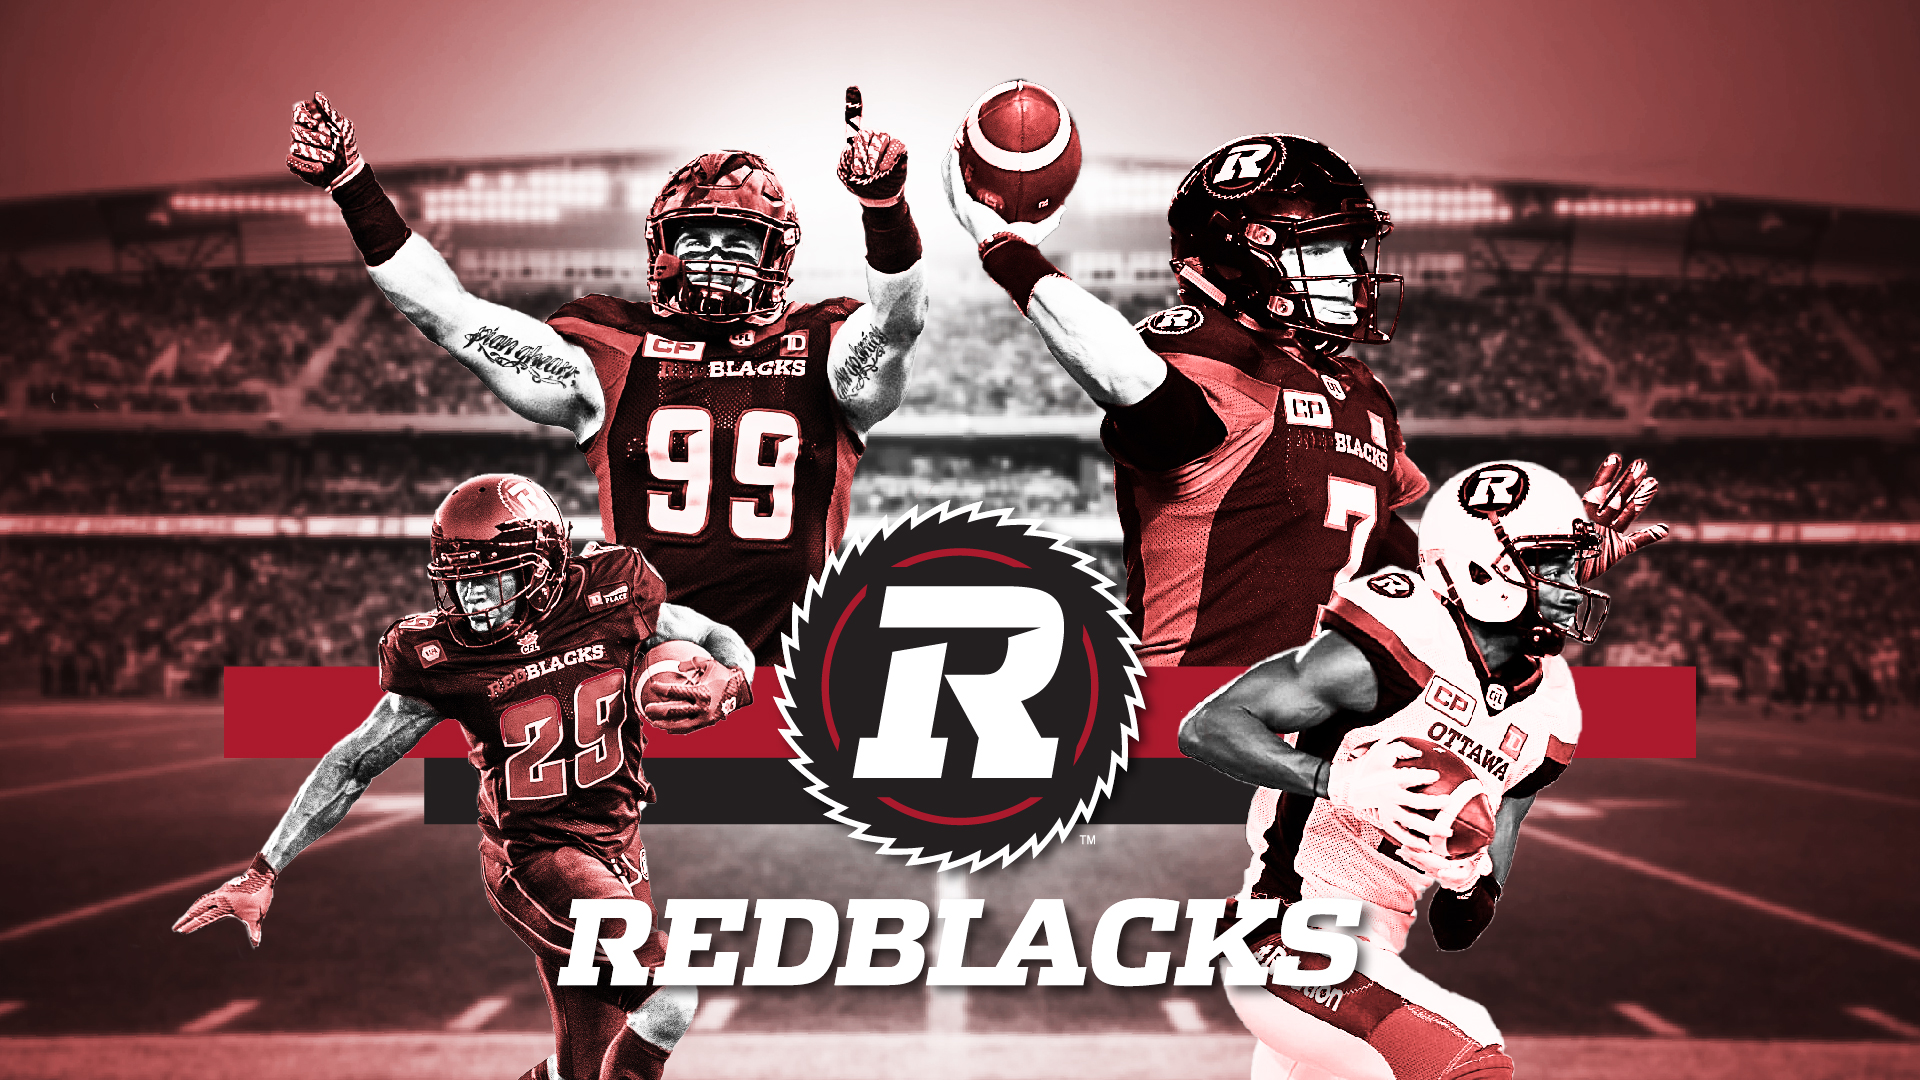
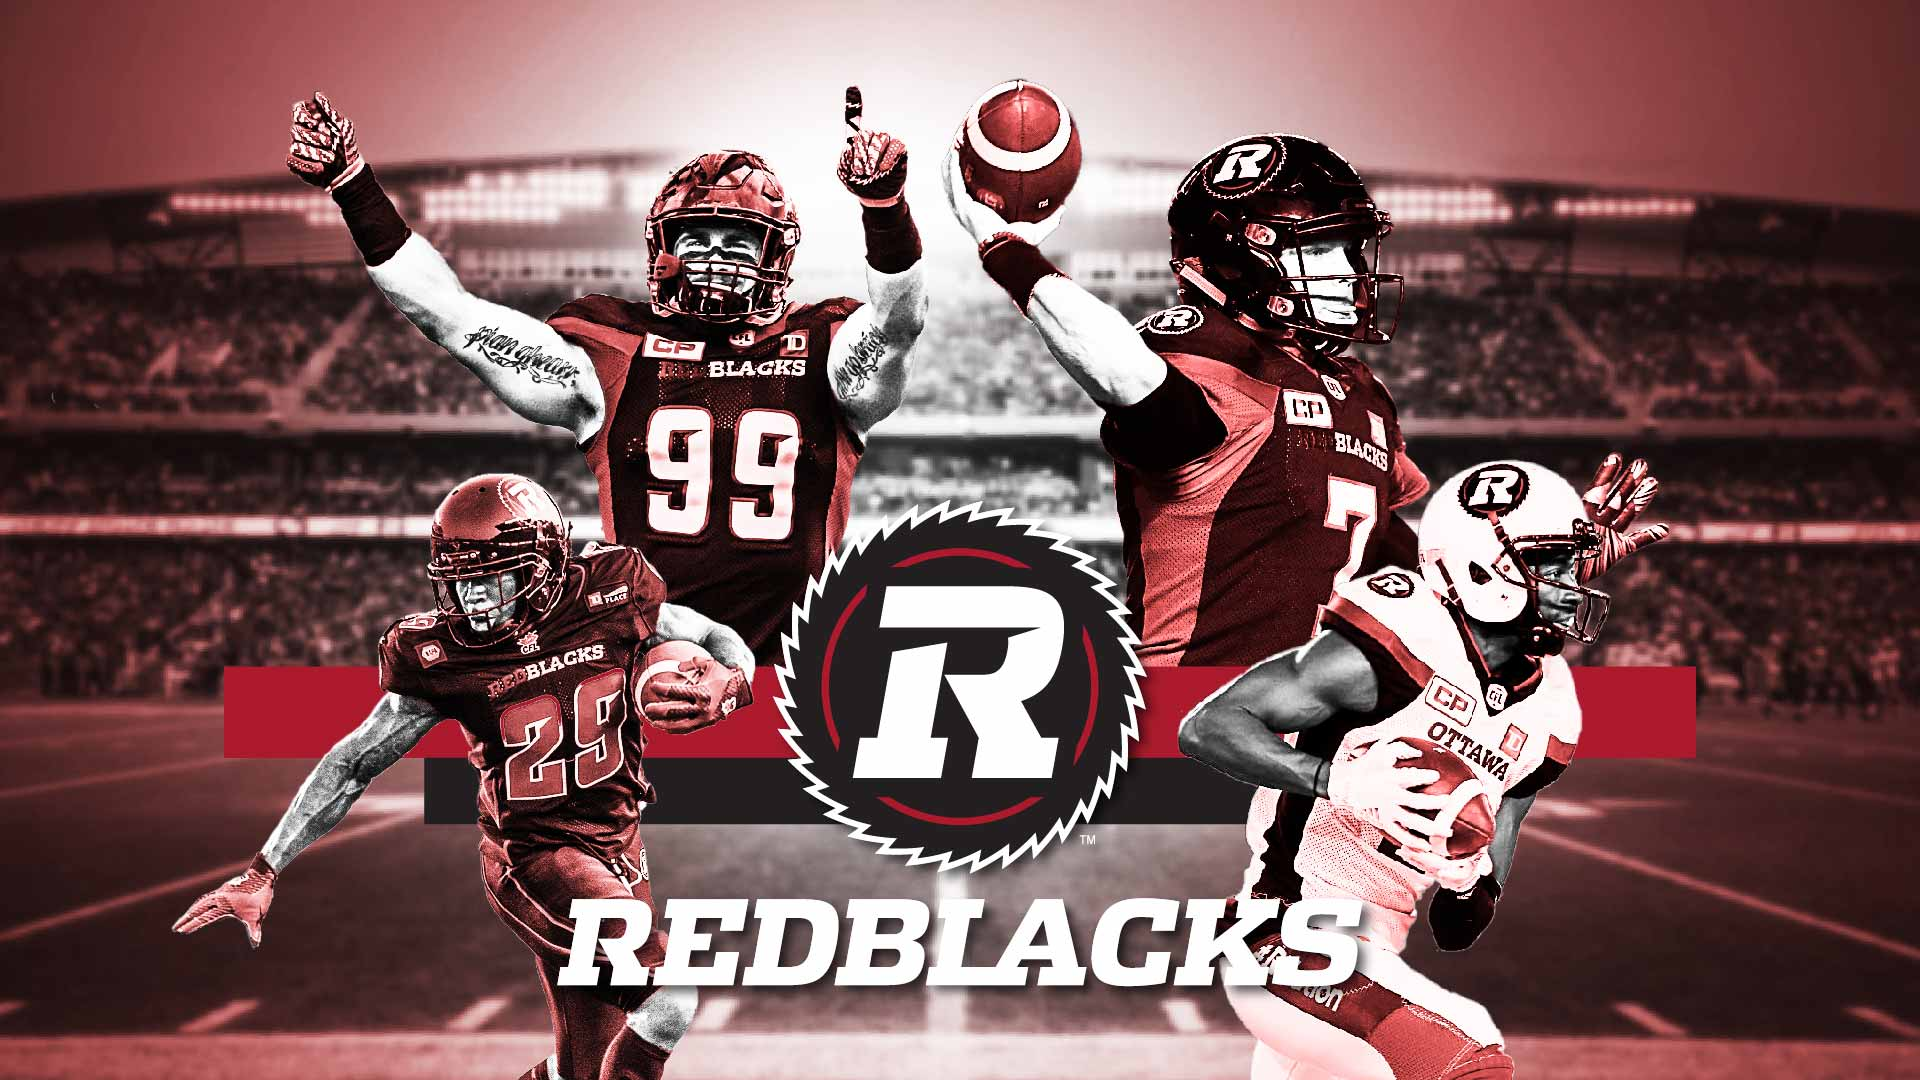
Resize all images and replace pngs

diff --git a/polished.html b/polished.html
@@ -46,7 +46,7 @@ csNumber: 0
   <div class="main-preview">
     <div class="grid wrapper island-1-2">
       <div class="unit [ xs-1 m-1-2 ] island-1-2 preview-holder">
-        <img class="main-preview-img main-preview-img-left case-study-preview-img-in tt-visuals" src="{{site.baseurl}}/images/polished/visual-design.png" alt="A computer, laptop, and tablet displaying the Polished website design at different screen sizes.">
+        <img class="main-preview-img main-preview-img-left case-study-preview-img-in tt-visuals" src="{{site.baseurl}}/images/polished/visual-design.jpg" alt="A computer, laptop, and tablet displaying the Polished website design at different screen sizes.">
       </div>
       <div class="unit [ xs-1 m-1-2 ] island-1-2">
         <h2 class="">Visual Design</h2>
@@ -87,7 +87,7 @@ csNumber: 0
   <div class="tt-final-preview">
     <div class="grid wrapper island-1-2">
       <div class="unit [ xs-1 m-1-2 ] island-1-2 preview-holder">
-        <img class="tt-final-preview-img tt-final-preview-img-left case-study-preview-img-in" src="{{site.baseurl}}/images/polished/laptop-polished-home.png" alt="A laptop showing the Polished home page design.">
+        <img class="tt-final-preview-img tt-final-preview-img-left case-study-preview-img-in" src="{{site.baseurl}}/images/polished/laptop-polished-home.jpg" alt="A laptop showing the Polished home page design.">
       </div>
       <div class="unit [ xs-1 m-1-2 ] island-1-2">
         <div class="font-alt bold giga library-cta">

diff --git a/amces.html b/amces.html
@@ -9,7 +9,7 @@ csNumber: 3
   <div class="main-preview push-0">
     <div class="grid wrapper island-1-2">
       <div class="unit [ xs-1 m-1-2 ] island-1-2 preview-holder">
-        <img class="main-preview-img main-preview-img-left stand-banner case-study-preview-img-in" src="{{site.baseurl}}/images/amces/stand-banner.png" alt="A stand up banner showing the AMCES branding.">
+        <img class="main-preview-img main-preview-img-left stand-banner case-study-preview-img-in" src="{{site.baseurl}}/images/amces/stand-banner.jpg" alt="A stand up banner showing the AMCES branding.">
       </div>
       <div class="unit [ xs-1 m-1-2 ] island-1-2">
         <h2 class="">Objective</h2>
@@ -98,6 +98,6 @@ csNumber: 3
     </div>
   </div>
   <div class="wrapper gutter" tabindex="0">
-    <img class="img-flex box-shadow" src="{{site.baseurl}}/images/amces/stationery-mockup-alt.jpg" alt="Mock ups of AMCES stationery.">
+    <img class="img-flex box-shadow" src="{{site.baseurl}}/images/amces/stationery-mockup.jpg" alt="Mock ups of AMCES stationery.">
   </div>
 </section>

diff --git a/_includes/nav-slider.html b/_includes/nav-slider.html
@@ -10,9 +10,9 @@
     <div class="nav-bg-photos">
       <img id="home-link-img" class="box-shadow" src="{{site.baseurl}}/images/home-hover.jpg" alt="Preview image of the home page banner.">
       {% for navImages in site.data.case-studies %}
-        <img id="{{navImages.csLink}}-link-img" src="{{site.baseurl}}/images/{{navImages.previewImg}}" alt="{{navImages.previewImgAlt}}">
+        <img id="{{navImages.csLink}}-link-img" src="{{site.baseurl}}/images/{{navImages.navImg}}" alt="{{navImages.navImgAlt}}">
       {% endfor %}
-      <img id="me-link-img" src="{{site.baseurl}}/images/adamheadshot-bw.png" alt="Adam Robillard's headshot.">
+      <img id="me-link-img" src="{{site.baseurl}}/images/adamheadshot-nav.jpg" alt="Adam Robillard's headshot.">
     </div>
     <div class="wrapper gutter">
       {% include nav.html navid="nav" navclass='nav-main bold text-shadow font-alt' ulclass='list-group push-0 tera' liclass='pad-t-1-4 pad-b-1-4' aclass='text-ccc'%}

diff --git a/the-hub.html b/the-hub.html
@@ -103,7 +103,7 @@ csNumber: 2
   <div class="tt-final-preview">
     <div class="grid wrapper island-1-2">
       <div class="unit [ xs-1 m-1-2 ] island-1-2 preview-holder">
-        <img class="tt-final-preview-img tt-final-preview-img-left case-study-preview-img-in" src="{{site.baseurl}}/images/the-hub/laptop-hub.png" alt="A laptop showing the home page of The Hub.">
+        <img class="tt-final-preview-img tt-final-preview-img-left case-study-preview-img-in" src="{{site.baseurl}}/images/the-hub/laptop-hub-bg-lg.jpg" alt="A laptop showing the home page of The Hub.">
       </div>
       <div class="unit [ xs-1 m-1-2 ] island-1-2">
         <div class="font-alt bold giga library-cta">

diff --git a/index.html b/index.html
@@ -33,7 +33,7 @@ description: Portfolio website for Ottawa based graphic designer Adam Robillard.
         </footer>
       </div>
       <div class="unit [ xs-1 m-1-2 ] pad-t static">
-        <img class="me-img case-study-preview-img-in" src="{{site.baseurl}}/images/adamheadshot-bw.png" alt="Adam Robillard's headshot.">
+        <img class="me-img case-study-preview-img-in" src="{{site.baseurl}}/images/adamheadshot.jpg" alt="Adam Robillard's headshot.">
       </div>
     </div>
   </section>

diff --git a/more-fun.html b/more-fun.html
@@ -348,7 +348,7 @@ csNumber: 4
         </div>
       <div class="gutter">
         <div class="embed embed-16by9">
-          <img class="embed-item" src="{{site.baseurl}}/images/laptop-example.png" alt="A laptop showing the homepage of TopTable.">
+          <img class="embed-item" src="{{site.baseurl}}/images/laptop-example.jpg" alt="A laptop showing the homepage of TopTable.">
         </div>
       </div>
       <div class="grid island-1-2 push">
